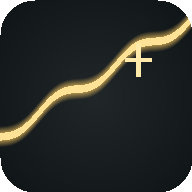
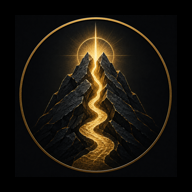
gold-vein-v55

diff --git a/styles.css b/styles.css
@@ -231,6 +231,49 @@ h1 {
   color: var(--ink);
 }
 
+.install-prompt {
+  align-items: center;
+  background: rgba(15, 20, 23, 0.94);
+  border: 1px solid rgba(245, 199, 95, 0.34);
+  border-radius: var(--radius);
+  bottom: 18px;
+  box-shadow: var(--shadow);
+  display: grid;
+  gap: 16px;
+  grid-template-columns: minmax(0, 1fr) auto;
+  left: 50%;
+  max-width: min(680px, calc(100% - 32px));
+  padding: 16px;
+  position: fixed;
+  transform: translateX(-50%);
+  width: 100%;
+  z-index: 20;
+}
+
+.install-prompt[hidden] {
+  display: none;
+}
+
+.install-prompt p {
+  color: var(--gold);
+  font-family: Georgia, Times New Roman, serif;
+  font-size: 1.1rem;
+  font-weight: 800;
+  margin: 0;
+}
+
+.install-prompt span {
+  color: var(--muted);
+  display: block;
+  font-size: 0.92rem;
+  margin-top: 2px;
+}
+
+.install-prompt-actions {
+  display: flex;
+  gap: 10px;
+}
+
 .button.wide {
   width: 100%;
 }
@@ -2556,6 +2599,16 @@ select:focus {
 }
 
 @media (max-width: 560px) {
+  .install-prompt {
+    align-items: stretch;
+    grid-template-columns: 1fr;
+  }
+
+  .install-prompt-actions {
+    display: grid;
+    grid-template-columns: 1fr 1fr;
+  }
+
   .home-menu {
     grid-template-columns: 1fr;
   }

diff --git a/script.js b/script.js
@@ -68,6 +68,9 @@ const giftTypeInputs = document.querySelectorAll("[data-gift-type]");
 const witnessNoteInput = document.querySelector("[data-witness-note]");
 const witnessConfirmButton = document.querySelector("[data-witness-confirm]");
 const witnessStatus = document.querySelector("[data-witness-status]");
+const installPrompt = document.querySelector("[data-install-prompt]");
+const installAppButton = document.querySelector("[data-install-app]");
+const dismissInstallButton = document.querySelector("[data-dismiss-install]");
 const resetGlobalTrailButton = document.querySelector("[data-reset-global-trail]");
 const globalStepButtons = document.querySelectorAll("[data-complete-global-step]");
 const globalSteps = document.querySelectorAll("[data-global-step]");
@@ -535,6 +538,47 @@ if ("serviceWorker" in navigator) {
     navigator.serviceWorker.register("./service-worker.js").catch(() => {});
   });
 }
+
+let deferredInstallPrompt = null;
+
+window.addEventListener("beforeinstallprompt", (event) => {
+  if (localStorage.getItem("gold-vein-install-dismissed") === "true") {
+    return;
+  }
+
+  event.preventDefault();
+  deferredInstallPrompt = event;
+  if (installPrompt) {
+    installPrompt.hidden = false;
+  }
+});
+
+installAppButton?.addEventListener("click", async () => {
+  if (!deferredInstallPrompt) {
+    return;
+  }
+
+  installPrompt.hidden = true;
+  deferredInstallPrompt.prompt();
+  await deferredInstallPrompt.userChoice;
+  deferredInstallPrompt = null;
+});
+
+dismissInstallButton?.addEventListener("click", () => {
+  localStorage.setItem("gold-vein-install-dismissed", "true");
+  deferredInstallPrompt = null;
+  if (installPrompt) {
+    installPrompt.hidden = true;
+  }
+});
+
+window.addEventListener("appinstalled", () => {
+  localStorage.setItem("gold-vein-install-dismissed", "true");
+  deferredInstallPrompt = null;
+  if (installPrompt) {
+    installPrompt.hidden = true;
+  }
+});
 
 const setStatus = (button, message) => {
   const status = button.parentElement.querySelector(".form-status");

diff --git a/index.html b/index.html
@@ -2334,6 +2334,17 @@
       </section>
     </main>
 
+    <aside class="install-prompt" data-install-prompt hidden aria-live="polite">
+      <div>
+        <p>Install Gold Vein</p>
+        <span>Add the adventure app to this device for quick access.</span>
+      </div>
+      <div class="install-prompt-actions">
+        <button class="button primary" type="button" data-install-app>Install</button>
+        <button class="button secondary" type="button" data-dismiss-install>Not now</button>
+      </div>
+    </aside>
+
     <footer class="footer">
       <p>Gold Vein</p>
       <a href="#top">Back to top</a>

diff --git a/service-worker.js b/service-worker.js
@@ -1,4 +1,4 @@
-const CACHE_NAME = "gold-vein-v53";
+const CACHE_NAME = "gold-vein-v55";
 const ASSETS = [
   "./",
   "./index.html",

diff --git a/README.md b/README.md
@@ -13,6 +13,8 @@ This first version is a static PWA-style website with multiple prototype adventu
 - Interactive adventure app prototype with locked and unlocked instructions
 - Compartmental app-page navigation from the home screen
 - Installable PWA metadata for phone testing
+- Automatic install prompt on browsers that support `beforeinstallprompt`
+- New medallion-style Gold Vein icon PNGs for app installs and shortcuts
 - Partner Location Trail: Gold Vein No. 1
 - Global Nearby Trail: The Nearby Neighbor
 - Home Trail: The Table and the Room
@@ -76,7 +78,7 @@ On iPhone, open the URL in Safari, tap Share, then choose **Add to Home Screen**
 
 - `index.html` - page structure and content
 - `styles.css` - responsive visual design
-- `script.js` - app unlock flow, print, field notes, and testimony interactions
+- `script.js` - app unlock flow, install prompt, print, field notes, and testimony interactions
 - `manifest.json` - installable app metadata
 - `service-worker.js` - app shell caching
 - `PILOT_PLAN.md` - project brief and V1 pilot plan